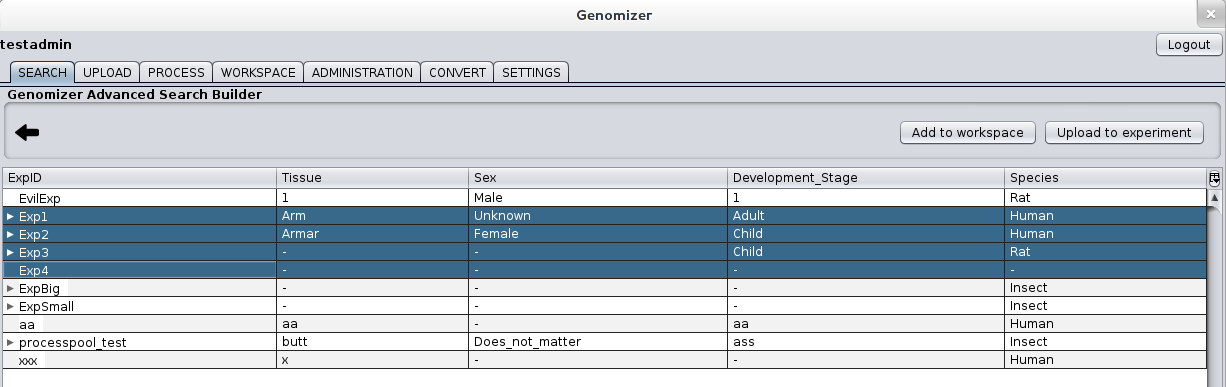
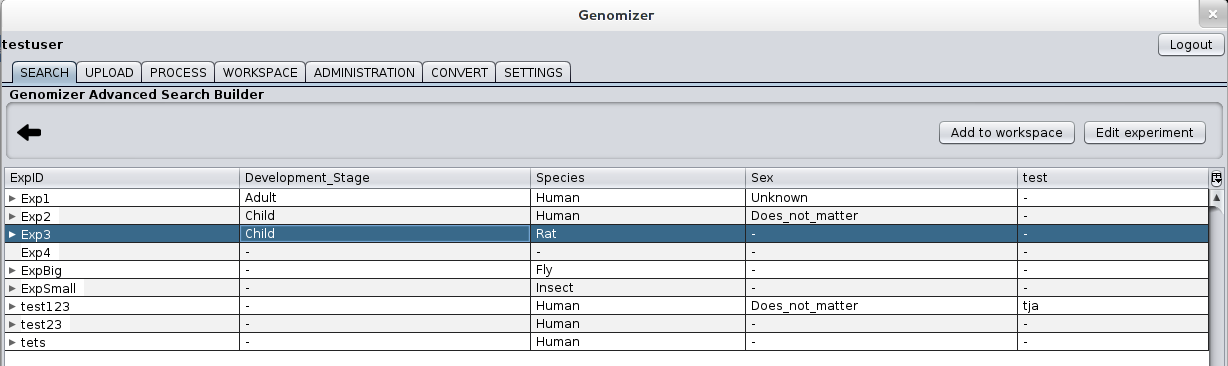
changed in desktop manual

diff --git a/usermanual/des_manual.tex b/usermanual/des_manual.tex
@@ -12,7 +12,7 @@ When you start this application the first thing that's displayed is a login scre
 	\caption{Screenshot of the login screen.}
 	\label{fig:des_login-pic}
 \end{figure}
-The application is built with tabs, as illustrated below in \refer{fig:des_tabs-view}. Each tab contains separate features of the application. There are five tabs: Search, Upload, Process, Workspace and Administration.
+The application is built with tabs, as illustrated below in \refer{fig:des_tabs-view}. Each tab contains separate features of the application. There are seven tabs: Search, Upload, Process, Workspace, Administration, Convert and Settings.
 \begin{figure}[htb]
 	\addImage{des_tabs.png}
 	\caption{Illustration of the different tabs of \appName Desktop and displaying the Search tab.}
@@ -21,7 +21,10 @@ The application is built with tabs, as illustrated below in \refer{fig:des_tabs-
 \FloatBarrier
 
 \subsection{Search}
-The first tab you see after logging in is the Search tab, illustrated in \refer{fig:des_search-query}. The Search tab uses the same query building technique as the “Pubmed Advanced Search Builder”\cite{des_3}. It has one text field where you either can type in the query yourself or you can use the query builder below it to build the query. To switch between manually editing the query and using the query builder there are two radio buttons to the left of the text field. Each row in the query builder has at most five components. These are a logical expression, an annotation name field, a free text field or a drop down menu to insert search words, a minus button and a plus button. The plus button is only available in the last row and it adda another row to the query. The minus button is used to remove a row and it exists on every row except if there is only one row in the query. The logical expressions combines the annotations, so they are available in every row but the first.
+The first tab you see after logging in is the Search tab, illustrated in \refer{fig:des_search-query}. The Search tab uses the same query building technique as the “Pubmed Advanced Search Builder”\cite{des_3}. It has one text field where you either can type in the query yourself or you can use the query builder to build the query. \\
+
+To switch between manually editing the query and using the query builder there are two radio buttons to the left of the text field. Each row in the query builder has at most five components. These are a logical expression, an annotation name field, a free text field or a drop down menu to insert search words, a minus button and a plus button. The plus button is only available in the last row and it adda another row to the query. The minus button is used to remove a row and it exists on every row except if there is only one row in the query. The logical expressions combines the annotations, so they are available in every row but the first. \\
+
 By writing in the annotation text field or selecting a value in the drop down menu you can specify the query the row will produce. Together each row builds a full query. As illustrated in \refer{fig:des_search-query} below.
 \begin{figure}[htb]
 	\addImage{des_search_tab.png}
@@ -30,7 +33,11 @@ By writing in the annotation text field or selecting a value in the drop down me
 \end{figure}
 \FloatBarrier
 \subsubsection{Search results}
-When you press the search button the search tab will change it's view to display the search results as illustrated in \refer{fig:des_search-results}. The results are displayed as experiments in a tree table. Each row is an experiment that cn be expanded to show more information and the files associated with the experiment. The tree table can be sorted both vertically by clicking the headings and horizontally by dragging and dropping the columns. You can choose which columns to display by using the menu in the upper right corner of the table. In the same menu there are also buttons for expanding and collapsing all experiments in the search results. To go back to the previous view, you can click the \emph{Back} button. There is also a button called \emph{Add to workspace} for adding the selected files or experiments to the workspace. The last button, \emph{Upoad to experiment} is used to upload more files to an experiment.
+When you press the search button the search tab will change it's view to display the search results as illustrated in \refer{fig:des_search-results}. The results are displayed as experiments in a tree table. Each row is an experiment that can be expanded to show more information and the files associated with the experiment. \\
+
+The tree table can be sorted both vertically or horizontally by clicking the headings or by dragging and dropping the columns. You can choose which columns to display by using the menu in the upper right corner of the table. In the same menu there are also buttons for expanding and collapsing all experiments in the search results. \\
+
+To go back to the previous view, you can click the \emph{Back} button. There is also a button called \emph{Add to workspace} for adding the selected files or experiments to the workspace. The last button, \emph{Edit experiment} is used to upload more files to an experiment or to edit information in the marked experiment.
 
 \begin{figure}[htb]
 	\addImage{des_search_res.png}
@@ -41,7 +48,7 @@ When you press the search button the search tab will change it's view to display
 
 \subsection{Upload}
 If you need to upload files to the database it can be done through the upload tab. When the tab is pressed you get presented with a button to create a new experiment shown in figure \ref{fig:des_upload-tab}.
-\newpage
+
 \begin{figure}[h!]
 	\addImage{des_upload_tab.png}
 	\caption{Illustration of the starting view of the upload tab.}
@@ -49,7 +56,11 @@ If you need to upload files to the database it can be done through the upload ta
 \end{figure}
 \subsubsection{Existing experiment}
 \label{sec:des_exists}
-In order to upload files to an existing experiments you need to search for the experiment in the search tab and then press the \emph{Upload to experiment} button. When this is done the experiment information get retrieved from the server and presented to you. For an existing experiment no editing of the annotations can be done at the moment. So after retrieving the wanted experiment you can press the "Browse files"-button to add files to the experiment. Then a file browser window pops up, it is illustrated in figure \ref{fig:des_upload}. Here you cn select the files you want to add to the experimant. The files will be added to the upload tab and there will be some new choices available for you. Each file  will be associated with one file row, this is also shown in \ref{fig:des_upload-exists}. The new choices are whether the new files are either raw, region or profile files. And if it is region or profile there is another choice for which genome release. There is also the possiblity to delete the file row, by clicking the "X"-button, in case this file is not suppose to be added to the experiment. After all is decided and the files are correct you simply click the "Upload files"-button. Then the progress bar starts to progress and if all goes well it will reach 100\% and the files is added to the existing experiment.
+In order to edit files or upload files to an existing experiment you need to search for the experiment in the search tab and then press the \emph{Edit experiment} button. When this is done the experiment information get retrieved from the server and presented to you. \\
+
+To edit the experiment, change the annotation values and press the \emph{Save changes} button. To add files to the wanted experiment you can press the "Browse files"-button to add files to the experiment. Then a file browser window pops up, it is illustrated in figure \ref{fig:des_upload}. Here you can select the files you want to add to the experiment. The files will be added to the upload tab and there will be some new choices available for you. Each file  will be associated with one file row, this is also shown in \ref{fig:des_upload-exists}. \\
+
+The new choices are whether the new files are either raw, region or profile files. And if it is region or profile there is another choice for which genome release. There is also the possiblity to delete the file row, by clicking the "X"-button, in case this file is not suppose to be added to the experiment. After all is decided and the files are correct you simply click the "Upload files"-button. Then the progress bar starts to progress and if all goes well it will reach 100\% and the files is added to the existing experiment.
 
 \begin{figure}[h!]
 	\addImage{des_upload_existing.png}
@@ -59,8 +70,10 @@ In order to upload files to an existing experiments you need to search for the e
 \newpage
 \subsubsection{New experiment}
 \label{sec:des_create}
-The first thing you need to do when creating a new experiment is pressing the "Create new experiment"-button in the upload tab. After pressing this button all the different annotations get retrieved from the server. If the annotation is of the type that should be filled with text there is an textfield to be filled out, and if it's a multiple choice annotation there is a dropdown menu of the different choices. The annotations who have bold text are forced and needs to be filled out in order to create the experiment. There are also three buttons added to the view. This is illustrated in \ref{fig:des_upload-new}. In order to add files to this experiment you need to press the "Browse files"-button where a filebrowser appears and choose which files are to be added. When the files are added they each get displayed in a file row. The file row consists of the file name and a progress bar. And apart from this there are also three button and a checkbox. The checkbox will be explained in section \ref{sec:des_batch} below. The other three button are used in the same manner as in section \ref{sec:des_exists} above. When all the annotations that are needed is filled and the associated files are added you press the "Create with all files"-button to create the experiment. The "Create experiment with selected files"-button is discussed in section \ref{sec:des_batch} below.
-\\
+The first thing you need to do when creating a new experiment is pressing the "Create new experiment"-button in the upload tab. After pressing this button all the different annotations get retrieved from the server. If the annotation is of the type that should be filled with text there is an textfield to be filled out, and if it's a multiple choice annotation there is a dropdown menu of the different choices. The annotations who have bold text are forced and needs to be filled out in order to create the experiment. There are also three buttons added to the view. This is illustrated in \ref{fig:des_upload-new}. In order to add files to this experiment you need to press the "Browse files"-button where a filebrowser appears and choose which files are to be added. When the files are added they each get displayed in a file row. The file row consists of the file name and a progress bar. \\
+
+ Apart from the add experiments there are also three buttons and a checkbox. The checkbox will be explained in section \ref{sec:des_batch} below. The other three buttons are used in the same manner as in section \ref{sec:des_exists} above. When all the annotations that are needed is filled in and the associated files are added you press the "Create with all files"-button to create the experiment. The "Create experiment with selected files"-button is discussed in section \ref{sec:des_batch} below. \\
+
 \begin{figure}[h]
 	\addImage{des_upload_new.png}
 	\caption{Illustration of the create new experiment part of the upload tab.}
@@ -69,7 +82,9 @@ The first thing you need to do when creating a new experiment is pressing the "C
 \subsubsection{Batch upload experiments}
 \label{sec:des_batch}
 In order to batch upload experiment the workflow of this application is suggested as follows:
-You start of as when uploading one experiment, as explained in \ref{sec:des_create}. But instead of choosing the wanted files for that experiment you choos all the files that are supposed to be uploaded to all the different experiments that are supposed to be created. You then starts to fill in the annotaions for the first experiment and selects the files that is going to be used in the experiment by checking the select field. After the files are selected you need to press the "Create experiment with selected files"-button. This creates the first experiment and starts to upload the selected files to it. And after the experiment is created, you can change the annotations  needed for the second experiment and then select the files for that experiment in the same manner. You can then click the "Create experiment with selected files"-button again and change the annotations to match the third experiment and the select the files for it and starts the upload. Every file that is uploaded is removed from the list of files. 
+You start of as when uploading one experiment, as explained in \ref{sec:des_create}. But instead of choosing the wanted files for that experiment you choose all the files that are supposed to be uploaded to the experiments. You then starts to fill in the annotaions for the first experiment and selects the files that is going to be used in the experiment by checking the select field. After the files are selected you need to press the "Create experiment with selected files"-button. This creates the first experiment and starts to upload the selected files to it. \\
+
+After the experiment is created, you can change the annotations needed for the second experiment and then select the files for that experiment. You can then click the "Create experiment with selected files"-button again and change the annotations to match the third experiment and the select the files for it and start the upload. Every file that is uploaded is removed from the list of files. 
 
 \begin{figure}[h]
 	\addScaledImage{0.5}{des_upload_select.png}
